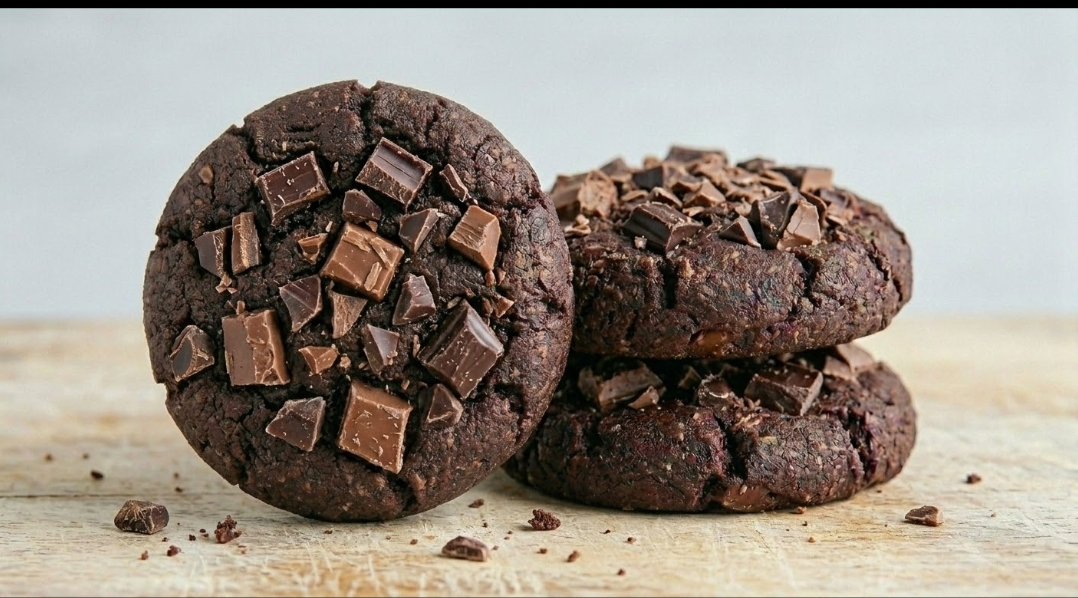
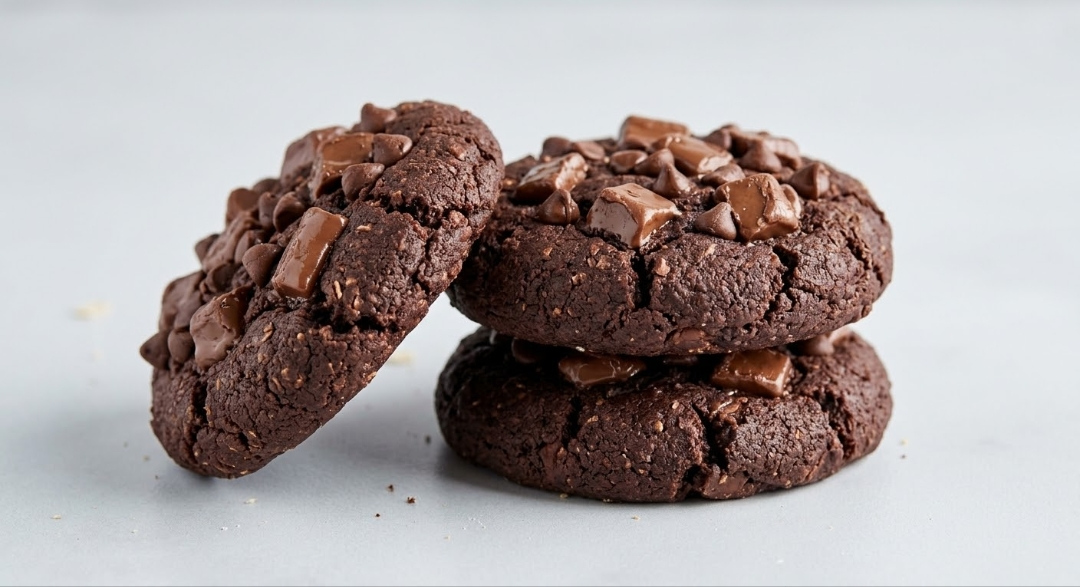
Update homepage gold description box

diff --git a/src/components/Hero.tsx b/src/components/Hero.tsx
@@ -1,5 +1,5 @@
 import { Link } from "react-router-dom";
-import { MessageCircle } from "lucide-react";
+import { Leaf, MessageCircle } from "lucide-react";
 import { BRAND, GENERAL_ENQUIRY, whatsappLink } from "@/lib/brand";
 import { ctaGold, ctaWhatsapp } from "./cta";
 import { HeroVideoCarousel } from "./HeroVideoCarousel";
@@ -10,41 +10,47 @@ import { HeroVideoCarousel } from "./HeroVideoCarousel";
  */
 export function Hero() {
   return (
-    <section className="relative flex min-h-[70svh] items-end overflow-hidden sm:min-h-[100svh] sm:items-center">
+    <section className="relative flex flex-col overflow-hidden bg-[var(--gradient-royal)] sm:min-h-[100svh] sm:flex-row sm:items-center sm:bg-transparent">
       {/* full-bleed video background */}
       <HeroVideoCarousel />
 
       {/* cinematic readability overlays — never a solid panel */}
       <div
         aria-hidden
-        className="pointer-events-none absolute inset-0 z-10 [background:linear-gradient(100deg,oklch(0.22_0.05_300/0.78)_0%,oklch(0.25_0.06_300/0.5)_38%,oklch(0.28_0.07_300/0.16)_62%,transparent_80%)]"
+        className="pointer-events-none absolute inset-0 z-10 hidden [background:linear-gradient(100deg,oklch(0.22_0.05_300/0.78)_0%,oklch(0.25_0.06_300/0.5)_38%,oklch(0.28_0.07_300/0.16)_62%,transparent_80%)] sm:block"
       />
       {/* soft cream wash at the very top so the navigation stays readable */}
       <div
         aria-hidden
-        className="pointer-events-none absolute inset-x-0 top-0 z-10 h-28 [background:linear-gradient(180deg,oklch(0.972_0.017_88/0.75)_0%,oklch(0.972_0.017_88/0.3)_55%,transparent_100%)]"
+        className="pointer-events-none absolute inset-x-0 top-0 z-10 hidden h-28 [background:linear-gradient(180deg,oklch(0.972_0.017_88/0.75)_0%,oklch(0.972_0.017_88/0.3)_55%,transparent_100%)] sm:block"
       />
       {/* gentle bottom vignette */}
       <div
         aria-hidden
-        className="pointer-events-none absolute inset-x-0 bottom-0 z-10 h-40 [background:linear-gradient(0deg,oklch(0.22_0.05_300/0.45)_0%,transparent_100%)]"
+        className="pointer-events-none absolute inset-x-0 bottom-0 z-10 hidden h-40 [background:linear-gradient(0deg,oklch(0.22_0.05_300/0.45)_0%,transparent_100%)] sm:block"
       />
 
       {/* overlaid hero content — left side, clear of the video subject */}
-      <div className="relative z-20 mx-auto w-full max-w-7xl px-4 pt-24 pb-10 sm:px-6 sm:pb-16">
-        <div className="animate-rise max-w-xl text-left">
-          <span className="inline-flex items-center gap-2 rounded-full border border-gold/70 bg-espresso/30 px-3 py-1 text-[0.55rem] font-bold tracking-[0.2em] text-cream shadow-soft backdrop-blur-sm sm:px-4 sm:py-1.5 sm:text-[0.62rem] sm:tracking-[0.24em]">
+      <div className="relative z-20 mx-auto w-full max-w-7xl px-4 pt-8 pb-3 sm:px-6 sm:pt-24 sm:pb-16">
+        <div className="animate-rise mx-auto max-w-xl text-center sm:mx-0 sm:text-left">
+          <span className="inline-flex items-center gap-2 rounded-full border border-gold/70 bg-cream/90 px-3 py-1 text-[0.55rem] font-bold tracking-[0.2em] text-espresso shadow-soft backdrop-blur-sm sm:bg-espresso/30 sm:px-4 sm:py-1.5 sm:text-[0.62rem] sm:tracking-[0.24em] sm:text-cream sm:tracking-[0.24em]">
             {BRAND.zeroMaidha}
           </span>
-          <h1 className="mt-4 font-display text-[2.1rem] leading-[1.02] font-medium text-cream drop-shadow-[0_2px_18px_oklch(0.22_0.05_300/0.45)] sm:mt-6 sm:text-6xl lg:text-7xl">
+          <h1 className="mt-4 font-display text-[2.1rem] leading-[1.02] font-medium text-plum drop-shadow-[0_2px_18px_oklch(0.22_0.05_300/0.45)] sm:mt-6 sm:text-6xl sm:text-gold lg:text-7xl">
             Baked to Impress.
             <br />
-            <span className="text-gold-foil">Made to Crave.</span>
+            <span className="text-gold sm:text-gold-foil">Made to Crave.</span>
           </h1>
-          <p className="mt-3 max-w-md text-sm leading-relaxed text-cream/85 sm:mt-6 sm:text-base lg:text-lg">
-            Premium oat-based cookies &amp; brownies, handcrafted with love.
-          </p>
-          <div className="mt-5 flex flex-wrap gap-2 sm:mt-9 sm:gap-3">
+          <div aria-hidden className="mt-4 flex justify-center text-gold sm:hidden">
+            <Leaf className="size-7" strokeWidth={1.25} />
+          </div>
+          <div className="mx-auto mt-3 w-full max-w-md rounded-xl border border-gold/35 px-4 py-3 shadow-soft [background:var(--gradient-gold)] sm:contents">
+            <p className="mt-0 text-sm leading-relaxed text-black sm:mt-6 sm:text-base sm:text-cream/85 lg:text-lg">
+              Premium oat-based cookies &amp; brownies,
+              <br className="sm:hidden" /> handcrafted with love.
+            </p>
+          </div>
+          <div className="mt-5 flex flex-wrap justify-center gap-2 sm:mt-9 sm:justify-start sm:gap-3">
             <Link to="/cookies" className={ctaGold}>
               EXPLORE COOKIES
             </Link>
@@ -57,7 +63,7 @@ export function Hero() {
               <MessageCircle className="size-3.5 sm:size-4" aria-hidden /> ORDER ON WHATSAPP
             </a>
           </div>
-          <p className="mt-4 text-[0.65rem] tracking-[0.2em] text-cream/70 sm:mt-6 sm:text-xs">
+          <p className="mt-4 text-[0.65rem] tracking-[0.2em] text-lavender/90 sm:mt-6 sm:text-xs sm:text-cream/70">
             {BRAND.phoneDisplay}
           </p>
         </div>

diff --git a/src/components/HeroVideoCarousel.tsx b/src/components/HeroVideoCarousel.tsx
@@ -27,7 +27,10 @@ export function HeroVideoCarousel({ className = "" }: { className?: string }) {
   }, [active]);
 
   return (
-    <div aria-hidden className={`absolute inset-0 overflow-hidden ${className}`}>
+    <div
+      aria-hidden
+      className={`relative aspect-video w-full shrink-0 overflow-hidden sm:absolute sm:inset-0 sm:aspect-auto ${className}`}
+    >
       {clips.map((src, i) => (
         <video
           key={src}
@@ -42,7 +45,7 @@ export function HeroVideoCarousel({ className = "" }: { className?: string }) {
           controls={false}
           disablePictureInPicture
           onEnded={() => setActive((cur) => (cur === i ? (i + 1) % clips.length : cur))}
-          className="absolute inset-0 size-full object-cover object-center transition-opacity duration-[1400ms] ease-out"
+          className="absolute inset-0 size-full object-contain object-center transition-opacity duration-[1400ms] ease-out sm:object-cover"
           style={{ opacity: active === i ? 1 : 0 }}
         />
       ))}

diff --git a/src/components/ProductCard.tsx b/src/components/ProductCard.tsx
@@ -5,6 +5,7 @@ import type { Product } from "@/data/products";
 
 export function ProductCard({ product }: { product: Product }) {
   const navigate = useNavigate();
+  const discountPercent = Math.round(((product.mrp - product.price) / product.mrp) * 100);
 
   const openProduct = () => navigate(`/product/${product.id}`);
 
@@ -33,6 +34,9 @@ export function ProductCard({ product }: { product: Product }) {
           showControls={false}
           className="aspect-square [transform:translateZ(0)] transition-transform duration-500 group-hover:scale-[1.02]"
         />
+        <span className="pointer-events-none absolute top-3 left-3 z-10 rounded-full bg-espresso px-2.5 py-1 text-[0.62rem] font-bold tracking-[0.08em] text-cream shadow-soft sm:top-4 sm:left-4 sm:px-3 sm:py-1.5 sm:text-xs">
+          {discountPercent}% OFF
+        </span>
       </div>
 
       <div className="flex flex-1 flex-col gap-2 p-2.5 sm:p-3.5">

diff --git a/src/routes/index.tsx b/src/routes/index.tsx
@@ -24,7 +24,7 @@ export default function Index() {
         eyebrow="The Collection"
         subtitle="Switch between cookies and brownies — every box is 100% ZERO MAIDHA."
       />
-      <FeaturedCarousel />
+      <FeaturedCarousel variant="reels" />
       <StorySection />
       <WhyCrispo />
       <AboutSection />

diff --git a/src/routes/why-crispo.tsx b/src/routes/why-crispo.tsx
@@ -33,7 +33,7 @@ export default function WhyCrispoPage() {
 
         <WhyCrispo />
         <CravingScroll />
-        <FeaturedCarousel variant="reels" />
+        <FeaturedCarousel />
       </div>
     </PageTransition>
   );
